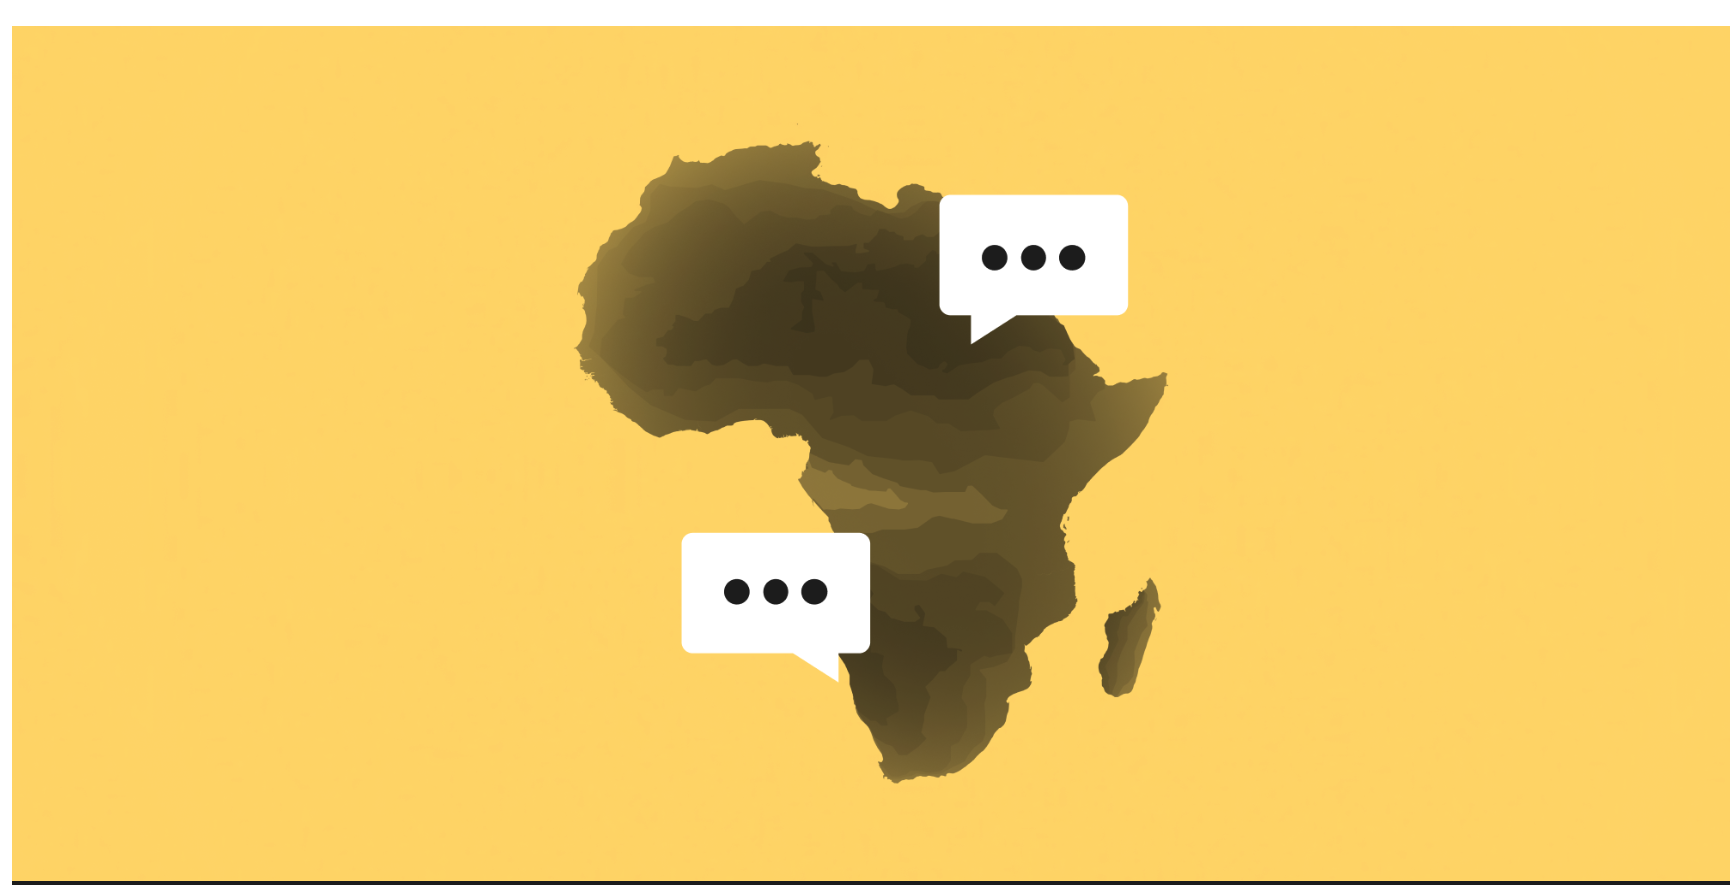
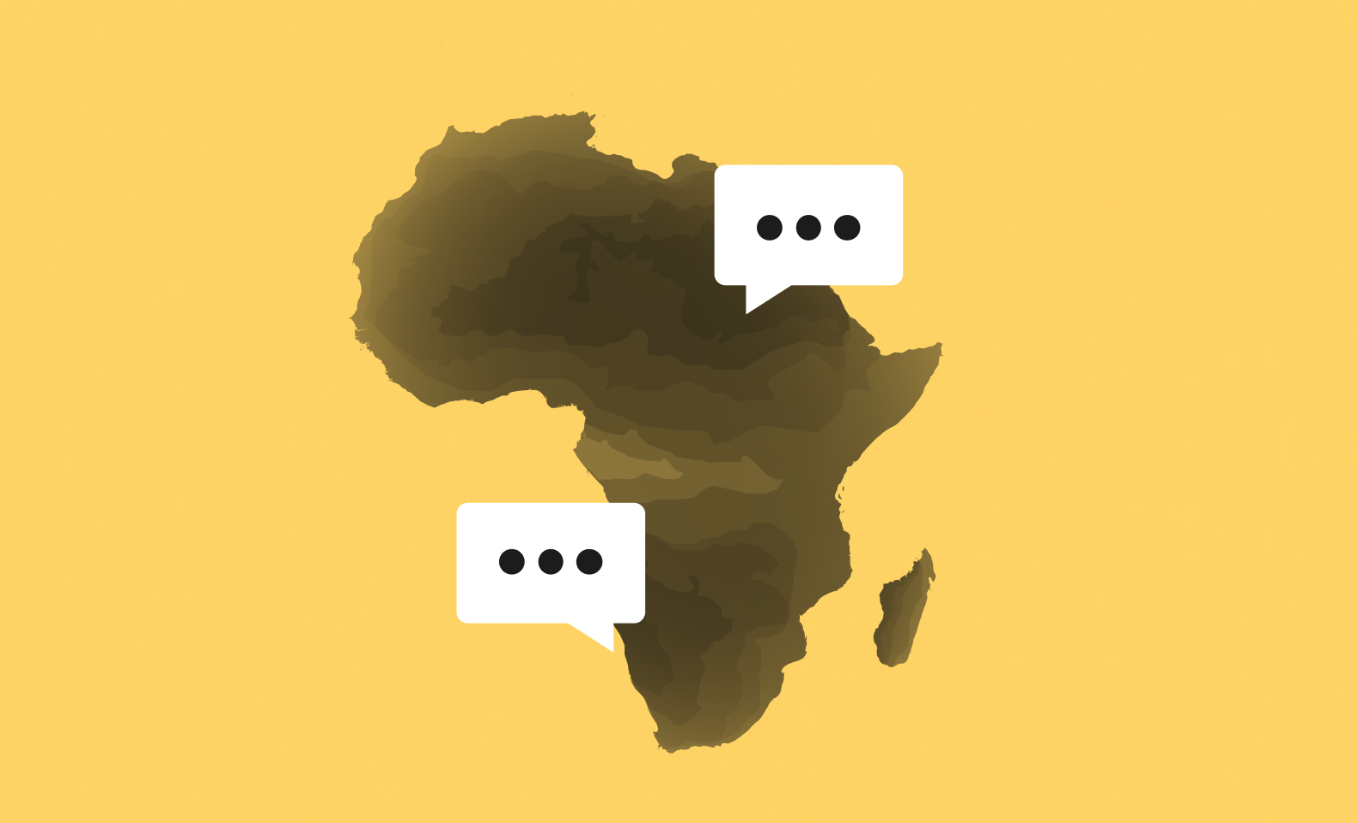
update asset  artciles

diff --git a/index.html b/index.html
@@ -921,6 +921,9 @@
         <div class="cov-grid">
           <article class="cov cov--feature dark" data-reveal>
             <div class="cov__meta"><span class="chip">allAfrica</span><span class="cov__date">6 July 2023</span></div>
+            <div class="cov__img zoom" aria-hidden="true">
+              <img src="assets/img/coverage/Africa’s climate crisis story.png" alt="" loading="lazy">
+            </div>
             <div style="position:relative;z-index:0">
               <h3><a href="https://allafrica.com/stories/202307060235.html" target="_blank" rel="noopener">Africa:
                   #AfricaClimateCrisis - The Story We Need to Tell<span class="sr-only"> (opens in a new tab)</span></a>
@@ -933,7 +936,9 @@
           </article>
           <div class="cov-list">
             <article class="cov cov--sm" data-reveal style="--d:.06s">
-              <div class="cov__thumb cov__thumb--y" aria-hidden="true">Jamlab</div>
+              <div class="cov__thumb cov__thumb--y" aria-hidden="true">
+                <img src="assets/img/coverage/JamLab Article.jpg" alt="Jamlab logo">
+              </div>
               <div class="cov__body">
                 <div class="cov__meta"><span class="chip">Jamlab</span><span class="cov__date">25 July 2023</span></div>
                 <h3><a href="https://jamlab.africa/media-entrepreneur-qa-benedicte-kalombo-founder-of-pin-africa/"
@@ -945,7 +950,9 @@
               </div>
             </article>
             <article class="cov cov--sm" data-reveal style="--d:.12s">
-              <div class="cov__thumb cov__thumb--g" aria-hidden="true">UNFCCC</div>
+              <div class="cov__thumb cov__thumb--g" aria-hidden="true">
+                <img src="assets/img/coverage/UNFCCC-Capacity-Building-Course-Poster.jpg" alt="UNFCCC logo">
+              </div>
               <div class="cov__body">
                 <div class="cov__meta"><span class="chip">UNFCCC Capacity-building Portal</span><span
                     class="cov__date">Date not stated in the resource sheet</span></div>
@@ -958,7 +965,9 @@
               </div>
             </article>
             <article class="cov cov--sm" data-reveal style="--d:.18s">
-              <div class="cov__thumb cov__thumb--d" aria-hidden="true">Selamta</div>
+              <div class="cov__thumb cov__thumb--d" aria-hidden="true">
+                <img src="assets/img/coverage/Selamta.jpg" alt="Selamta logo">
+              </div>
               <div class="cov__body">
                 <div class="cov__meta"><span class="chip">Selamta Magazine</span><span class="cov__date">May-June 2023
                     Edition</span></div>

diff --git a/css/main.css b/css/main.css
@@ -2741,6 +2741,25 @@ body.menu-open {
   margin-top: 20px;
 }
 
+.cov__img {
+  position: relative;
+  z-index: 0;
+  aspect-ratio: 16/6;
+  border-radius: var(--r-lg);
+  overflow: hidden;
+}
+
+.cov__img img {
+  display: block;
+  width: 100%;
+  height: 100%;
+  object-fit: cover;
+}
+
+.cov:hover .cov__img img {
+  transform: scale(1.03);
+}
+
 .cov--feature .cov__mark::after {
   content: attr(data-mark);
 }
@@ -2797,9 +2816,16 @@ body.menu-open {
   font-weight: 500;
   font-size: 1.125rem;
   letter-spacing: -0.01em;
-  padding: 8px;
   text-align: center;
   line-height: 1.1;
+}
+
+.cov__thumb img {
+  display: block;
+  width: 100%;
+  height: 100%;
+  object-fit: cover;
+  border-radius: var(--r-md);
 }
 
 .cov__thumb--y {
